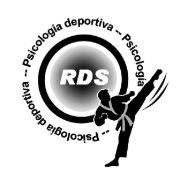
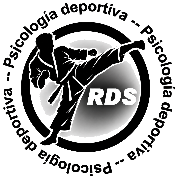
v76: replica con tecnica distinta, ranking por categoria y filtro de duracion, icono nuevo
- cBeginRetaliation() ya no repite la misma tecnica del rival tras un
  contraataque fallado -- elige otra distinta (cPickTech), pedido expreso
  para que no haya equivocos.
- Ranking con criterio de orden propio por categoria (rankCompare, usado a
  la vez por sortLb y por renderRankList para que la lista y la posicion
  del ultimo resultado coincidan):
  - Defensa/Ataque: numero de aciertos (rec.def) desc, empate por media de
    reaccion asc. Fila muestra "6/8 · 412 ms".
  - Combate: victorias > empates > derrotas; dentro de cada tramo,
    diferencia de puntos desc, luego puntos propios desc (10-2 por delante
    de 8-0, misma diferencia), luego media asc. Fila muestra "8-2 · 377 ms".
  - Campeonato: sin cambios (ronda alcanzada desc, luego media).
  - saveScore()/finish()/cFinishResults() ahora guardan los campos nuevos
    (rec.def para Defensa/Ataque; rec.score/rec.rivalScore para Combate).
- Nueva fila de filtro "1 MIN/2 MIN/3 MIN" (#seg2RTime) en el ranking de
  Combate/Campeonato, sustituyendo a la de 10/25/50 (que no significa nada
  ahi) -- antes solo se podia ver el ranking de la ultima duracion jugada,
  ahora se puede consultar cualquiera de las tres sin volver a jugar.
- Icono nuevo ("Icono Definitivo.png", karateca en silueta pateando):
  mismo pipeline que v44/v61 (flood-fill del fondo blanco a transparente
  via canvas del navegador, 3 tamanos generados desde el mismo canvas,
  apple-touch-icon sobre blanco opaco por la limitacion de iOS con alfa).
[…]

diff --git a/index.html b/index.html
@@ -467,7 +467,7 @@ if('serviceWorker' in navigator){
       </select>
     </div>
   </div>
-    <div class="app-ver">v75</div>
+    <div class="app-ver">v76</div>
     </div>
 
   </main>
@@ -631,6 +631,11 @@ if('serviceWorker' in navigator){
         <button class="rank-tab" data-v="10">10</button>
         <button class="rank-tab" data-v="25">25</button>
         <button class="rank-tab" data-v="50">50</button>
+      </div>
+      <div class="rank-tabs" id="seg2RTime" style="display:none;">
+        <button class="rank-tab" data-v="60">1 MIN</button>
+        <button class="rank-tab" data-v="120">2 MIN</button>
+        <button class="rank-tab" data-v="180">3 MIN</button>
       </div>
       <div id="rkList" class="rank-full-list"></div>
     </div>
@@ -1102,7 +1107,7 @@ function finish(){
   $('rV2').textContent=kDef+'/'+kTot;
   $('rV3').textContent=(kTot?Math.round(kDef/kTot*100):0)+'%';
   $('rV4').textContent=(c.best?Math.round(c.best):'--');
-  S.resAvg=c.avg; S.resTotal=total; S.resEnsayos=c.n; S.saved=false;
+  S.resAvg=c.avg; S.resTotal=total; S.resEnsayos=c.n; S.resKDef=kDef; S.saved=false;
   renderChart(S.times);
   var gb=$('btnGuardar'); if(gb){ gb.disabled=false; gb.textContent='Guardar resultado'; }
   showSaveScreen();
@@ -1111,13 +1116,53 @@ function finish(){
 /* ---------- Ranking: clave local + Firebase ---------- */
 function lbKey(a,b,c){ return 'rds_rkarate_'+a+'_'+b+'_'+c; }
 function loadLb(k){ try{ return JSON.parse(localStorage.getItem(k)||'[]'); }catch(e){ return []; } }
-/* Campeonato: manda la ronda alcanzada (rec.rounds: 0 cuartos ... 3 campeon) y, a igualdad,
-   la media de reaccion; el resto de categorias no tienen rounds y ordenan solo por media. */
-function sortLb(lb){ lb.sort(function(a,b){
-  var ra=a.rounds||0, rb=b.rounds||0;
+/* Orden del ranking, DISTINTO por categoria (2026-09-22, pedido expreso):
+   - Campeonato: ronda alcanzada (rec.rounds) desc, a igualdad media de reaccion asc.
+   - Defensa/Ataque: cantidad de aciertos (rec.def: defensas o ataques acertados,
+     segun s1) desc, a igualdad media de reaccion asc.
+   - Combate: primero VICTORIAS, luego EMPATES, luego DERROTAS (cTier); dentro de
+     cada tramo, diferencia de puntos (mios-rival) desc -- "los 8 a 0 van primero,
+     pero si hay un 10-2 (misma diferencia, mas puntos hechos) va POR DELANTE del
+     8-0" -- luego puntos propios desc como segundo desempate de la diferencia, y
+     por ultimo media de reaccion asc. Se aplica igual dentro de empates/derrotas
+     por coherencia (mismo criterio, no solo victorias). */
+function cTier(rec){
+  var d=(rec.score||0)-(rec.rivalScore||0);
+  return d>0 ? 0 : (d===0 ? 1 : 2);   // 0=victoria, 1=empate, 2=derrota
+}
+/* Comparador compartido por sortLb() y renderRankList() (rankBetter) -- un
+   unico sitio para el criterio de cada categoria, para que el orden de la
+   lista y la posicion calculada para "tu ultimo resultado" sean coherentes. */
+function rankCompare(a,b,mode){
+  var m = mode || (a && a.s1) || (b && b.s1) || '';
+  if(m==='def' || m==='atk'){
+    var da=(a&&a.def)||0, db=(b&&b.def)||0;
+    if(da!==db) return db-da;
+    var aAvg=(a&&a.avg!=null)?a.avg:(MENOR_ES_MEJOR?9999999:-9999999);
+    var bAvg=(b&&b.avg!=null)?b.avg:(MENOR_ES_MEJOR?9999999:-9999999);
+    return MENOR_ES_MEJOR ? (aAvg-bAvg) : (bAvg-aAvg);
+  }
+  if(m==='cmb'){
+    var ta=cTier(a||{}), tb=cTier(b||{});
+    if(ta!==tb) return ta-tb;
+    var dfa=((a&&a.score)||0)-((a&&a.rivalScore)||0), dfb=((b&&b.score)||0)-((b&&b.rivalScore)||0);
+    if(dfa!==dfb) return dfb-dfa;
+    var sa=(a&&a.score)||0, sb=(b&&b.score)||0;
+    if(sa!==sb) return sb-sa;
+    var aAvg2=(a&&a.avg!=null)?a.avg:(MENOR_ES_MEJOR?9999999:-9999999);
+    var bAvg2=(b&&b.avg!=null)?b.avg:(MENOR_ES_MEJOR?9999999:-9999999);
+    return MENOR_ES_MEJOR ? (aAvg2-bAvg2) : (bAvg2-aAvg2);
+  }
+  // champ (y cualquier otro caso): ronda desc, luego media
+  var ra=(a&&a.rounds)||0, rb=(b&&b.rounds)||0;
   if(ra!==rb) return rb-ra;
-  return MENOR_ES_MEJOR ? (a.avg-b.avg) : (b.avg-a.avg);
-}); }
+  var far=MENOR_ES_MEJOR?9999999:-9999999;
+  var av=(a&&a.avg!=null)?a.avg:far, bv=(b&&b.avg!=null)?b.avg:far;
+  return MENOR_ES_MEJOR ? (av-bv) : (bv-av);
+}
+function sortLb(lb, mode){
+  lb.sort(function(a,b){ return rankCompare(a,b,mode); });
+}
 var CH_ROUND_NAMES = ['Cuartos','Semis','Final','Campeón'];
 /* Combate y Campeonato no usan repeticiones (seg2 del home queda sin sentido
    ahí) -- su categoría real de ranking es tiempo+estrategia (S.cTime/S.cStrategy,
@@ -1133,8 +1178,10 @@ function saveScore(avg,total){
   var kp = curKeyParts();
   var rec={ s1:kp[0], s2:kp[1], s3:kp[2], name:nm, ensayos:S.resEnsayos, avg:Math.round(avg), tt:Math.round(total), ts:Date.now() };
   if(S.s1==='champ') rec.rounds=S.champRounds||0;
+  if(S.s1==='def' || S.s1==='atk') rec.def=S.resKDef||0;
+  if(S.s1==='cmb'){ rec.score=S.resScore||0; rec.rivalScore=S.resRivalScore||0; }
   var k=lbKey(kp[0],kp[1],kp[2]), lb=loadLb(k);
-  lb.push(rec); sortLb(lb); lb=lb.slice(0,50);
+  lb.push(rec); sortLb(lb,kp[0]); lb=lb.slice(0,50);
   try{ localStorage.setItem(k,JSON.stringify(lb)); }catch(e){}
   S.lastRec=rec; S.lastRecKey=k;
   if(window.fbSave){ window.fbSave(rec); }
@@ -1166,14 +1213,11 @@ function getHomeName(){
   return sport ? (nm+'-'+sport) : nm;
 }
 
-function renderRankList(list, el, latest){
+function renderRankList(list, el, latest, mode){
   list=filterRepeated(list);
   function rankBetter(a,b){
     if(a==null) return false; if(b==null) return true;
-    if((a.rounds||0)!==(b.rounds||0)) return (a.rounds||0)>(b.rounds||0);
-    var far=MENOR_ES_MEJOR?9999999:-9999999;
-    var av=(a.avg==null?far:a.avg), bv=(b.avg==null?far:b.avg);
-    return MENOR_ES_MEJOR ? av<bv : av>bv;
+    return rankCompare(a,b,mode) < 0;
   }
   var medals=['gold','silver','bronze'];
   var meName=getHomeName();
@@ -1196,7 +1240,11 @@ function renderRankList(list, el, latest){
     pos.textContent=posLabel;
     var nm=document.createElement('div');nm.className='rank-full-name';nm.textContent=entry.name;
     var ms=document.createElement('div');ms.className='rank-full-ms';
-    ms.textContent=(entry.rounds!=null ? CH_ROUND_NAMES[Math.max(0,Math.min(3,entry.rounds))]+' · ' : '')+entry.avg+' '+UNIDAD;
+    var prefix='';
+    if(entry.rounds!=null) prefix=CH_ROUND_NAMES[Math.max(0,Math.min(3,entry.rounds))]+' · ';
+    else if((mode==='def'||mode==='atk') && entry.def!=null) prefix=entry.def+'/'+(entry.ensayos!=null?entry.ensayos:entry.def)+' · ';
+    else if(mode==='cmb' && entry.score!=null) prefix=entry.score+'-'+(entry.rivalScore||0)+' · ';
+    ms.textContent=prefix+entry.avg+' '+UNIDAD;
     var dt=document.createElement('div');dt.className='rank-full-date';dt.textContent=entry.ts?fmtDate(entry.ts):'';
     row.appendChild(pos);row.appendChild(nm);row.appendChild(ms);row.appendChild(dt);
     return row;
@@ -1223,19 +1271,25 @@ function renderRankList(list, el, latest){
   }
 }
 
-/* seg2R (10/25/50) no significa nada para Combate ni Campeonato (ranking por
-   tiempo+estrategia, ver curKeyParts) -- se oculta y se sustituye por
-   S.cTime/S.cStrategy en vez de leerlo. Defensa/Ataque: tercer campo siempre 'paus'. */
+/* seg2R (10/25/50) no significa nada para Combate ni Campeonato -- se oculta y
+   se sustituye por seg2RTime (1/2/3 MIN, ver curKeyParts), que sí se puede
+   elegir a mano para consultar el ranking de cualquier duración jugada,
+   independientemente de con qué duración se jugó la última partida
+   (S.cTime solo se usa como valor inicial la primera vez que se entra).
+   Defensa/Ataque: tercer campo siempre 'paus'. */
 function updateRankFilterVis(v1){
-  $('seg2R').style.display = isCombatMode(v1) ? 'none' : 'flex';
+  var combat = isCombatMode(v1);
+  $('seg2R').style.display = combat ? 'none' : 'flex';
+  $('seg2RTime').style.display = combat ? 'flex' : 'none';
 }
 function rankV2V3(v1){
-  return isCombatMode(v1) ? [String(S.cTime||60), (S.cStrategy||'libre')] : [selVal('seg2R')||'25', 'paus'];
+  return isCombatMode(v1) ? [selVal('seg2RTime')||String(S.cTime||60), (S.cStrategy||'libre')] : [selVal('seg2R')||'25', 'paus'];
 }
 function rankFromSel(){
   var v1 = selVal('seg1R')||'def';
   updateRankFilterVis(v1);
   var v23 = rankV2V3(v1);
+  if(isCombatMode(v1) && !selVal('seg2RTime')) setSeg('seg2RTime', v23[0]);
   renderRank(v1, v23[0], v23[1]);
 }
 function segRank(id){
@@ -1269,6 +1323,7 @@ function showRanking(){
   updateRankFilterVis(v1);
   var v23=rankV2V3(v1);
   if(!isCombatMode(v1)){ v23=[selVal('seg2')||'25','paus']; setSeg('seg2R',v23[0]); }
+  else { v23=[String(S.cTime||60),(S.cStrategy||'libre')]; setSeg('seg2RTime',v23[0]); }
   renderRank(v1,v23[0],v23[1]); show('ranking');
 }
 function renderRank(v1,v2,v3){
@@ -1279,17 +1334,19 @@ function renderRank(v1,v2,v3){
   if(S.saved===false && isFinite(S.resAvg) && lbKey(kp[0],kp[1],kp[2])===key){
     latest={ name:(S.sport?(S.name+'-'+S.sport):S.name), avg:Math.round(S.resAvg), ensayos:S.resEnsayos, ts:Date.now() };
     if(S.s1==='champ') latest.rounds=S.champRounds||0;
+    if(S.s1==='def' || S.s1==='atk') latest.def=S.resKDef||0;
+    if(S.s1==='cmb'){ latest.score=S.resScore||0; latest.rivalScore=S.resRivalScore||0; }
   } else if(S.lastRec && S.lastRecKey===key){
     latest=S.lastRec;
   }
   var lbLocal=loadLb(key);
-  sortLb(lbLocal);
-  renderRankList(lbLocal, el, latest);
+  sortLb(lbLocal,v1);
+  renderRankList(lbLocal, el, latest, v1);
   if(window.fbLoad){
     window.fbLoad(v1,v2,v3).then(function(rows){
       if(rows && S.rankKey===key){
-        sortLb(rows);
-        renderRankList(rows, el, latest);
+        sortLb(rows,v1);
+        renderRankList(rows, el, latest, v1);
       }
     }).catch(function(){});
   }
@@ -1315,7 +1372,7 @@ seg('seg1'); seg('seg2'); seg('seg3'); segLink('seg1','seg3');
 seg('segColor'); seg('segGender'); seg('segTime'); seg('segStrategy');
 $('segColor').addEventListener('click', updateMsRivalPreview);
 $('segGender').addEventListener('click', updateMsRivalPreview);
-segRank('seg1R'); segRank('seg2R');
+segRank('seg1R'); segRank('seg2R'); segRank('seg2RTime');
 $('btnRank2').addEventListener('click', showRanking);
 $('btnGuardar').addEventListener('click', function(){
   if(S.saved) return;
@@ -2280,18 +2337,26 @@ function cResolveCounter(tap){
     cAwardPoint('player', counterValue);
     return;
   }
-  /* Si fallo mi contraataque, el 50% de las veces el rival repite la MISMA
-     técnica una vez más -- sí puedo volver a pararla (cResolveRetaliation,
-     ventana normal de defender), pero si la paro no se reabre otra ventana
-     de contraataque para mí (nada de encadenar). 2026-09-16, pedido
-     expreso, corregido tras una primera versión que lo hacía automático:
-     "sí que puedo pararlo, pero no volver a tirar yo otro". */
+  /* Si fallo mi contraataque, el 50% de las veces el rival replica con OTRO
+     ataque real -- sí puedo volver a pararlo (cResolveRetaliation, ventana
+     normal de defender), pero si lo paro no se reabre otra ventana de
+     contraataque para mí (nada de encadenar). 2026-09-16, pedido expreso,
+     corregido tras una primera versión que lo hacía automático: "sí que
+     puedo pararlo, pero no volver a tirar yo otro". 2026-09-22: la réplica
+     dejó de repetir la MISMA técnica (pedido expreso, "para que no haya
+     equívocos") -- ahora cBeginRetaliation() elige una distinta. */
   if(Math.random()<0.5){ return cBeginRetaliation(); }
   C.state='done';
   C.timer=setTimeout(cParado, 500);
 }
 function cBeginRetaliation(){
-  var tech = C.pending;
+  // La replica ya NO repite la misma tecnica que se acaba de parar (2026-09-22,
+  // pedido expreso "para que no haya equivocos") -- se elige otra distinta,
+  // igual que cualquier otro ataque real del rival.
+  var name = cPickTech(C.lastTechName);
+  C.lastTechName = name;
+  var tech = { s:name, hx:K_HITS[name][0], hy:K_HITS[name][1], name:K_NAMES[name], sc:(K_SC[name]||1), winBonus:(K_WINBONUS[name]||0) };
+  C.pending = tech; K.tech = tech;
   $('cAmagoBtn').disabled=true; $('cAtkBtn').disabled=true;
   C.state='retaliation_attack';
   cShowPose(tech.s, tech, C.mirror);
@@ -2547,6 +2612,7 @@ function cFinishResults(){
   $('rV3').textContent=(C.attempts?Math.round(C.hits/C.attempts*100):0)+'%';
   $('rV4').textContent=(best===Infinity?'--':Math.round(best));
   S.resAvg=avg; S.resTotal=Math.max(0,((S.cTime||60)-C.timeLeft))*1000; S.resEnsayos=n; S.saved=false;
+  S.resScore=playerScore; S.resRivalScore=rivalScore;
   renderChart(C.times);
   var gb=$('btnGuardar'); if(gb){ gb.disabled=false; gb.textContent='Guardar resultado'; }
   showSaveScreen();

diff --git a/sw.js b/sw.js
@@ -1,5 +1,5 @@
 /* RDS Plantilla - Service Worker */
-var CACHE = 'reactionkarate-v75';
+var CACHE = 'reactionkarate-v76';
 var ASSETS = [
   './',
   './index.html',
